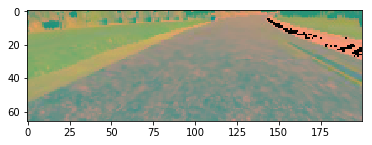
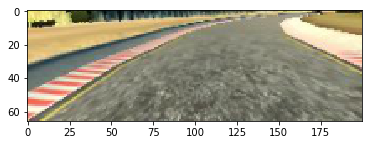
Read Me update, flip and no flip image

diff --git a/README.md b/README.md
@@ -2,7 +2,7 @@
 
 [//]: # (Image References)
 
-[image1]: ./images/bright.png "Bright Image"
+[image1]: ./images/noflip.png "noflip"
 [image2]: ./images/clr.png "YUV image"
 [image3]: ./images/crop.png "Crop Image"
 [image4]: ./images/flip.png "flip Image"
@@ -36,7 +36,7 @@ A youtube link of the screen capture is available here.
 
 ## Model Architecture and Training Strategy
 
-The implementation is based on the [NVIDIA model] (https://devblogs.nvidia.com/parallelforall/deep-learning-self-driving-cars/). 
+The implementation is based on the [NVIDIA model](https://devblogs.nvidia.com/parallelforall/deep-learning-self-driving-cars/). 
 
 The architecture seems to be proven for this project. The architecture is based on several layers of convolution network followed by several fully connected layers.
 
@@ -89,7 +89,7 @@ I added the additional augumentation for increased training scenarios for the mo
 
 - The images are flipped to provide more addition clockwise direction as the track is mostly anit-clockwise drive. I ensured the steering angle was also altered accordingly to match the flipped image. Random brightness / darkness also added to improve the performance.
 
-![YUV colour Space][image2] ![flipped][image4]
+![Not Flipped][image1] ![Flipped][image4]
 
 - My original model without dropouts had higher loss on the validation set when compared to the training set. I added a droput layer to address this issue.
 
@@ -100,3 +100,10 @@ I added the additional augumentation for increased training scenarios for the mo
 - Introduction of left and right camera data provide a better perspective for the model in recovery scenarios. This is supported by a steering offset of 0.2.
 
 ![Recovery Right](https://github.com/srikanth-narayanan/Udacity-Self-Driving-Car/blob/master/Term-1/CarND-Behavioral-Cloning-P3/images/recovery.gif)
+
+The model was trained with the following settings,
+- EPOCHS - 5.
+- BATCH SIZE - 64.
+
+The car was able to drive the track autonomously without leaving the track using new model trained with improved training set and image augmentation.
+
